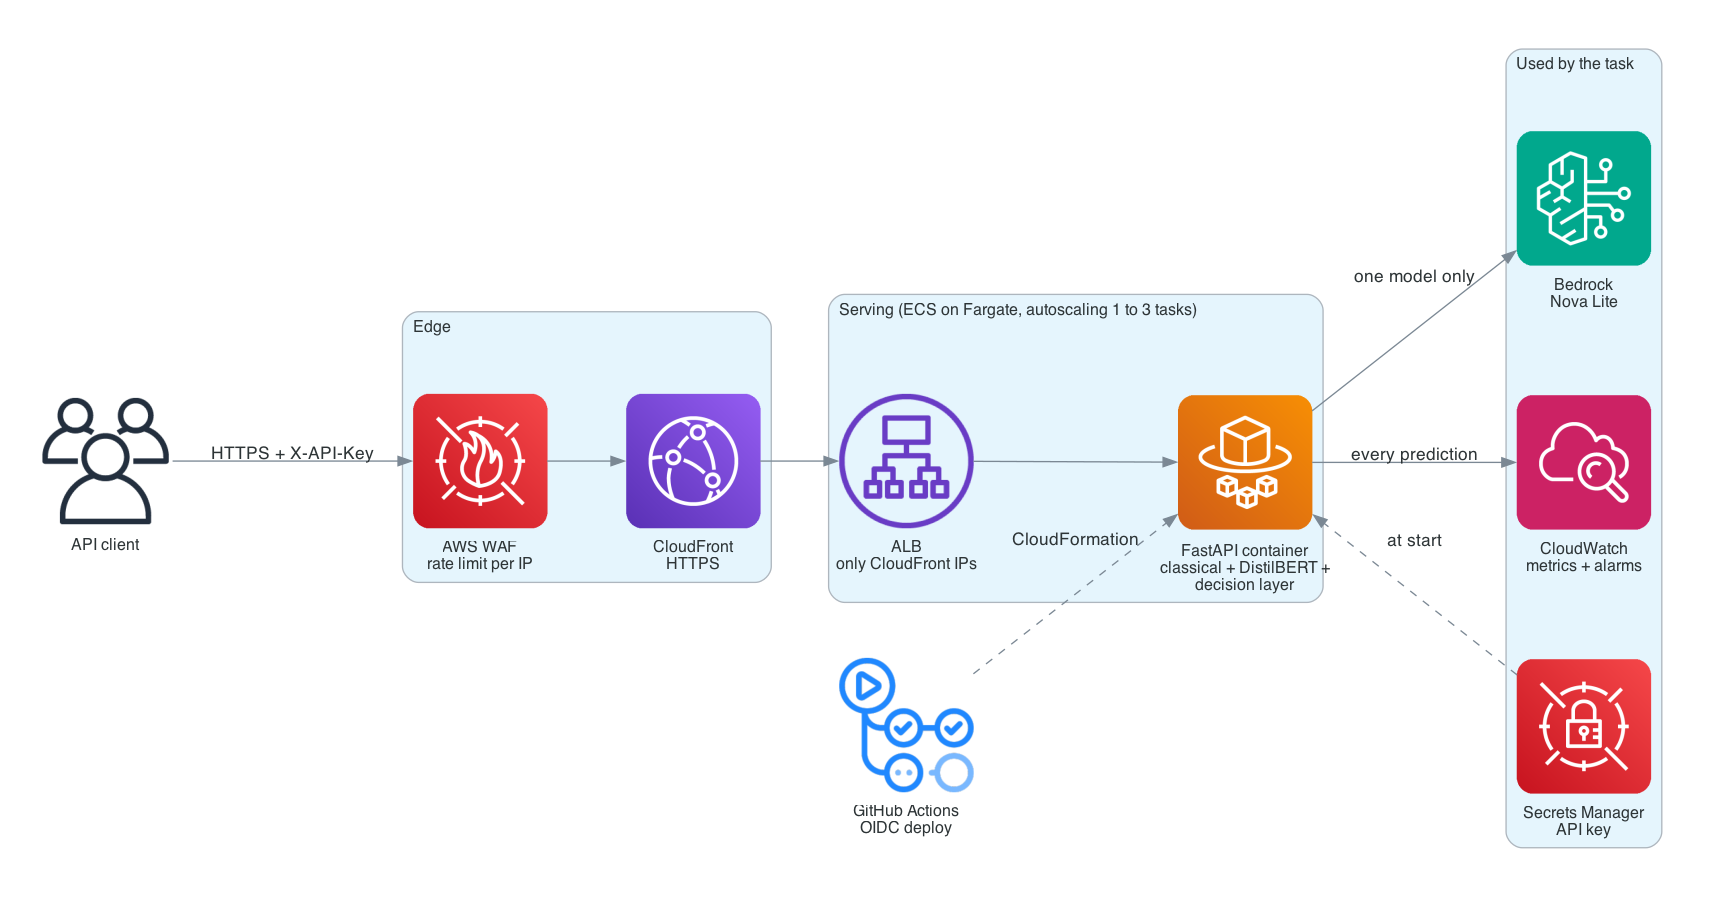
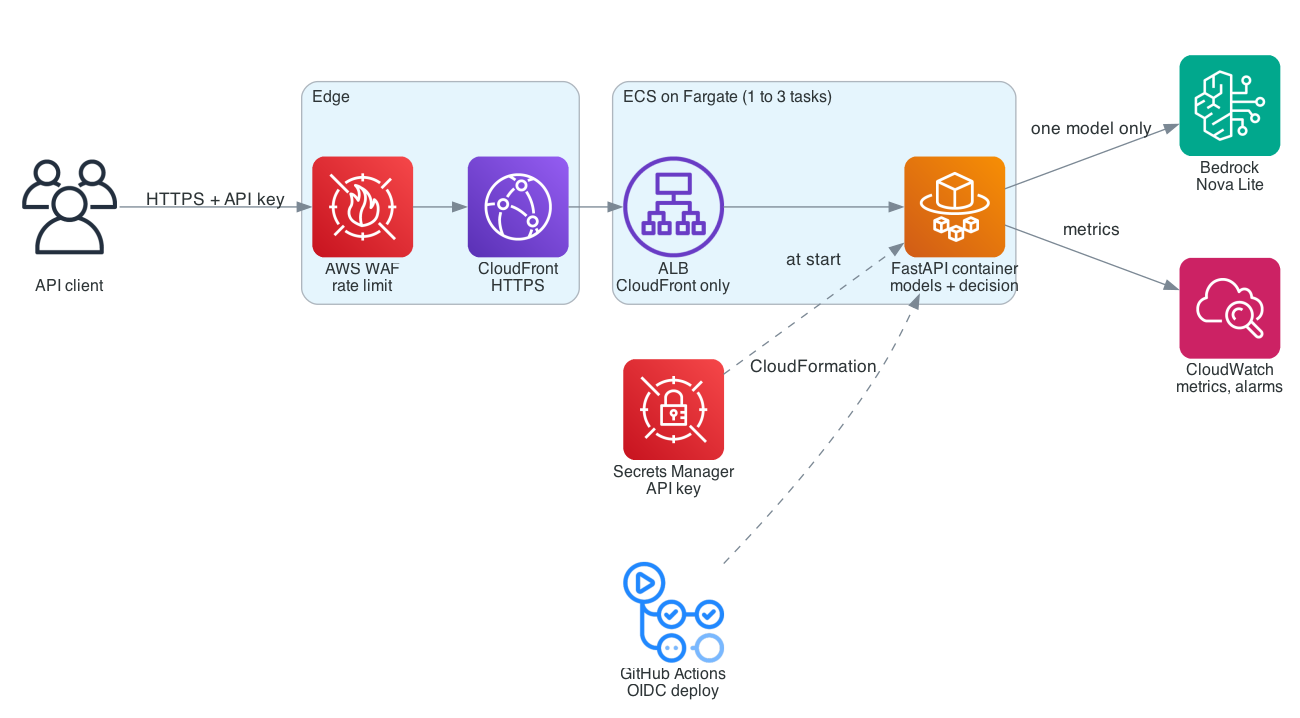
Make the AWS architecture diagram smaller and pin its displayed width

diff --git a/docs/diagrams/generate.py b/docs/diagrams/generate.py
@@ -75,25 +75,26 @@ def decision_pipeline() -> None:
 
 
 def aws_architecture() -> None:
+    small = {"width": "1.05", "height": "1.8"}   # smaller icons than the library default, for a tighter picture
     with Diagram("", filename=str(OUT / "aws_architecture"), show=False, direction="LR",
-                 graph_attr=GRAPH | {"ranksep": "0.8", "nodesep": "0.45", "splines": "spline"}, node_attr=NODE, outformat="png"):
-        client = Users("API client")
+                 graph_attr=GRAPH | {"ranksep": "0.55", "nodesep": "0.3", "pad": "0.2", "fontsize": "13", "splines": "spline"},
+                 node_attr=NODE, outformat="png"):
+        client = Users("API client", **small)
         with Cluster("Edge"):
-            waf = WAF("AWS WAF\nrate limit per IP")
-            cdn = CloudFront("CloudFront\nHTTPS")
-        with Cluster("Serving (ECS on Fargate, autoscaling 1 to 3 tasks)"):
-            alb = ALB("ALB\nonly CloudFront IPs")
-            api = Fargate("FastAPI container\nclassical + DistilBERT +\ndecision layer")
-        with Cluster("Used by the task"):
-            bedrock = Bedrock("Bedrock\nNova Lite")
-            secret = SecretsManager("Secrets Manager\nAPI key")
-            logs = Cloudwatch("CloudWatch\nmetrics + alarms")
-        gha = GithubActions("GitHub Actions\nOIDC deploy")
-        client >> Edge(label="HTTPS + X-API-Key") >> waf >> cdn >> alb >> api
-        gha >> Edge(style="dashed", label="CloudFormation") >> api
+            waf = WAF("AWS WAF\nrate limit", **small)
+            cdn = CloudFront("CloudFront\nHTTPS", **small)
+        with Cluster("ECS on Fargate (1 to 3 tasks)"):
+            alb = ALB("ALB\nCloudFront only", **small)
+            api = Fargate("FastAPI container\nmodels + decision", **small)
+        bedrock = Bedrock("Bedrock\nNova Lite", **small)
+        logs = Cloudwatch("CloudWatch\nmetrics, alarms", **small)
+        secret = SecretsManager("Secrets Manager\nAPI key", **small)
+        gha = GithubActions("GitHub Actions\nOIDC deploy", **small)
+        client >> Edge(label="HTTPS + API key") >> waf >> cdn >> alb >> api
         api >> Edge(label="one model only") >> bedrock
+        api >> Edge(label="metrics") >> logs
         secret >> Edge(style="dashed", label="at start") >> api
-        api >> Edge(label="every prediction") >> logs
+        gha >> Edge(style="dashed", label="CloudFormation") >> api
 
 
 def release_path() -> None:

diff --git a/README.md b/README.md
@@ -326,7 +326,7 @@ python docs/diagrams/generate.py             # redraw the diagrams in this READM
 
 ## AWS architecture
 
-![AWS architecture](docs/images/aws_architecture.png)
+<p align="center"><img src="docs/images/aws_architecture.png" alt="AWS architecture" width="720"></p>
 
 | Layer | Service | Role |
 |---|---|---|
